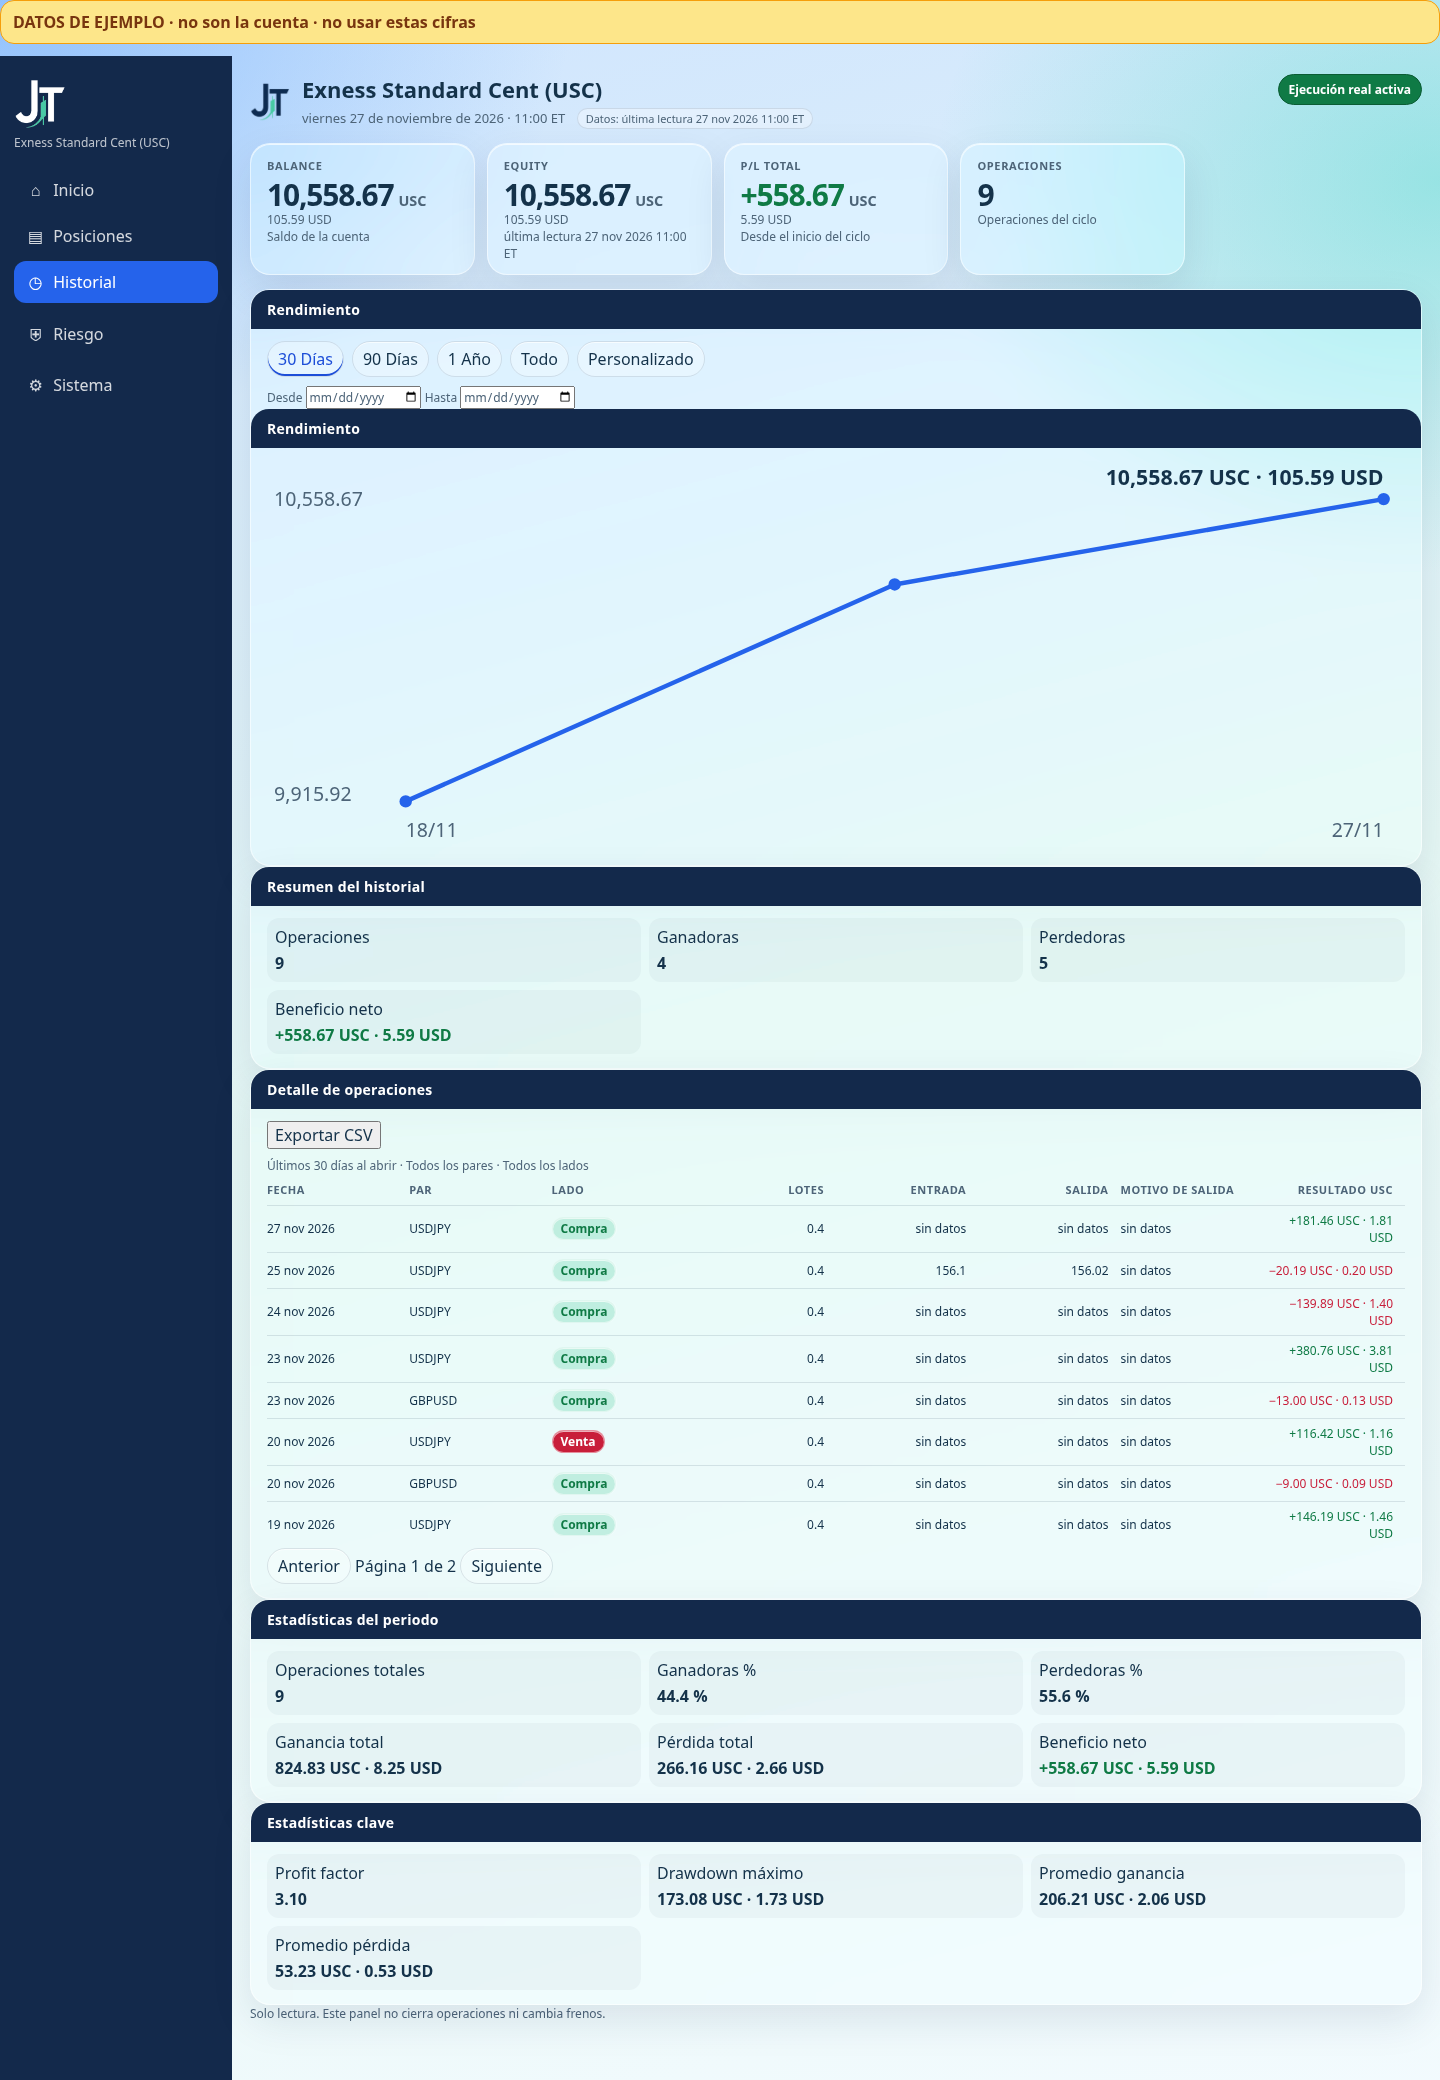
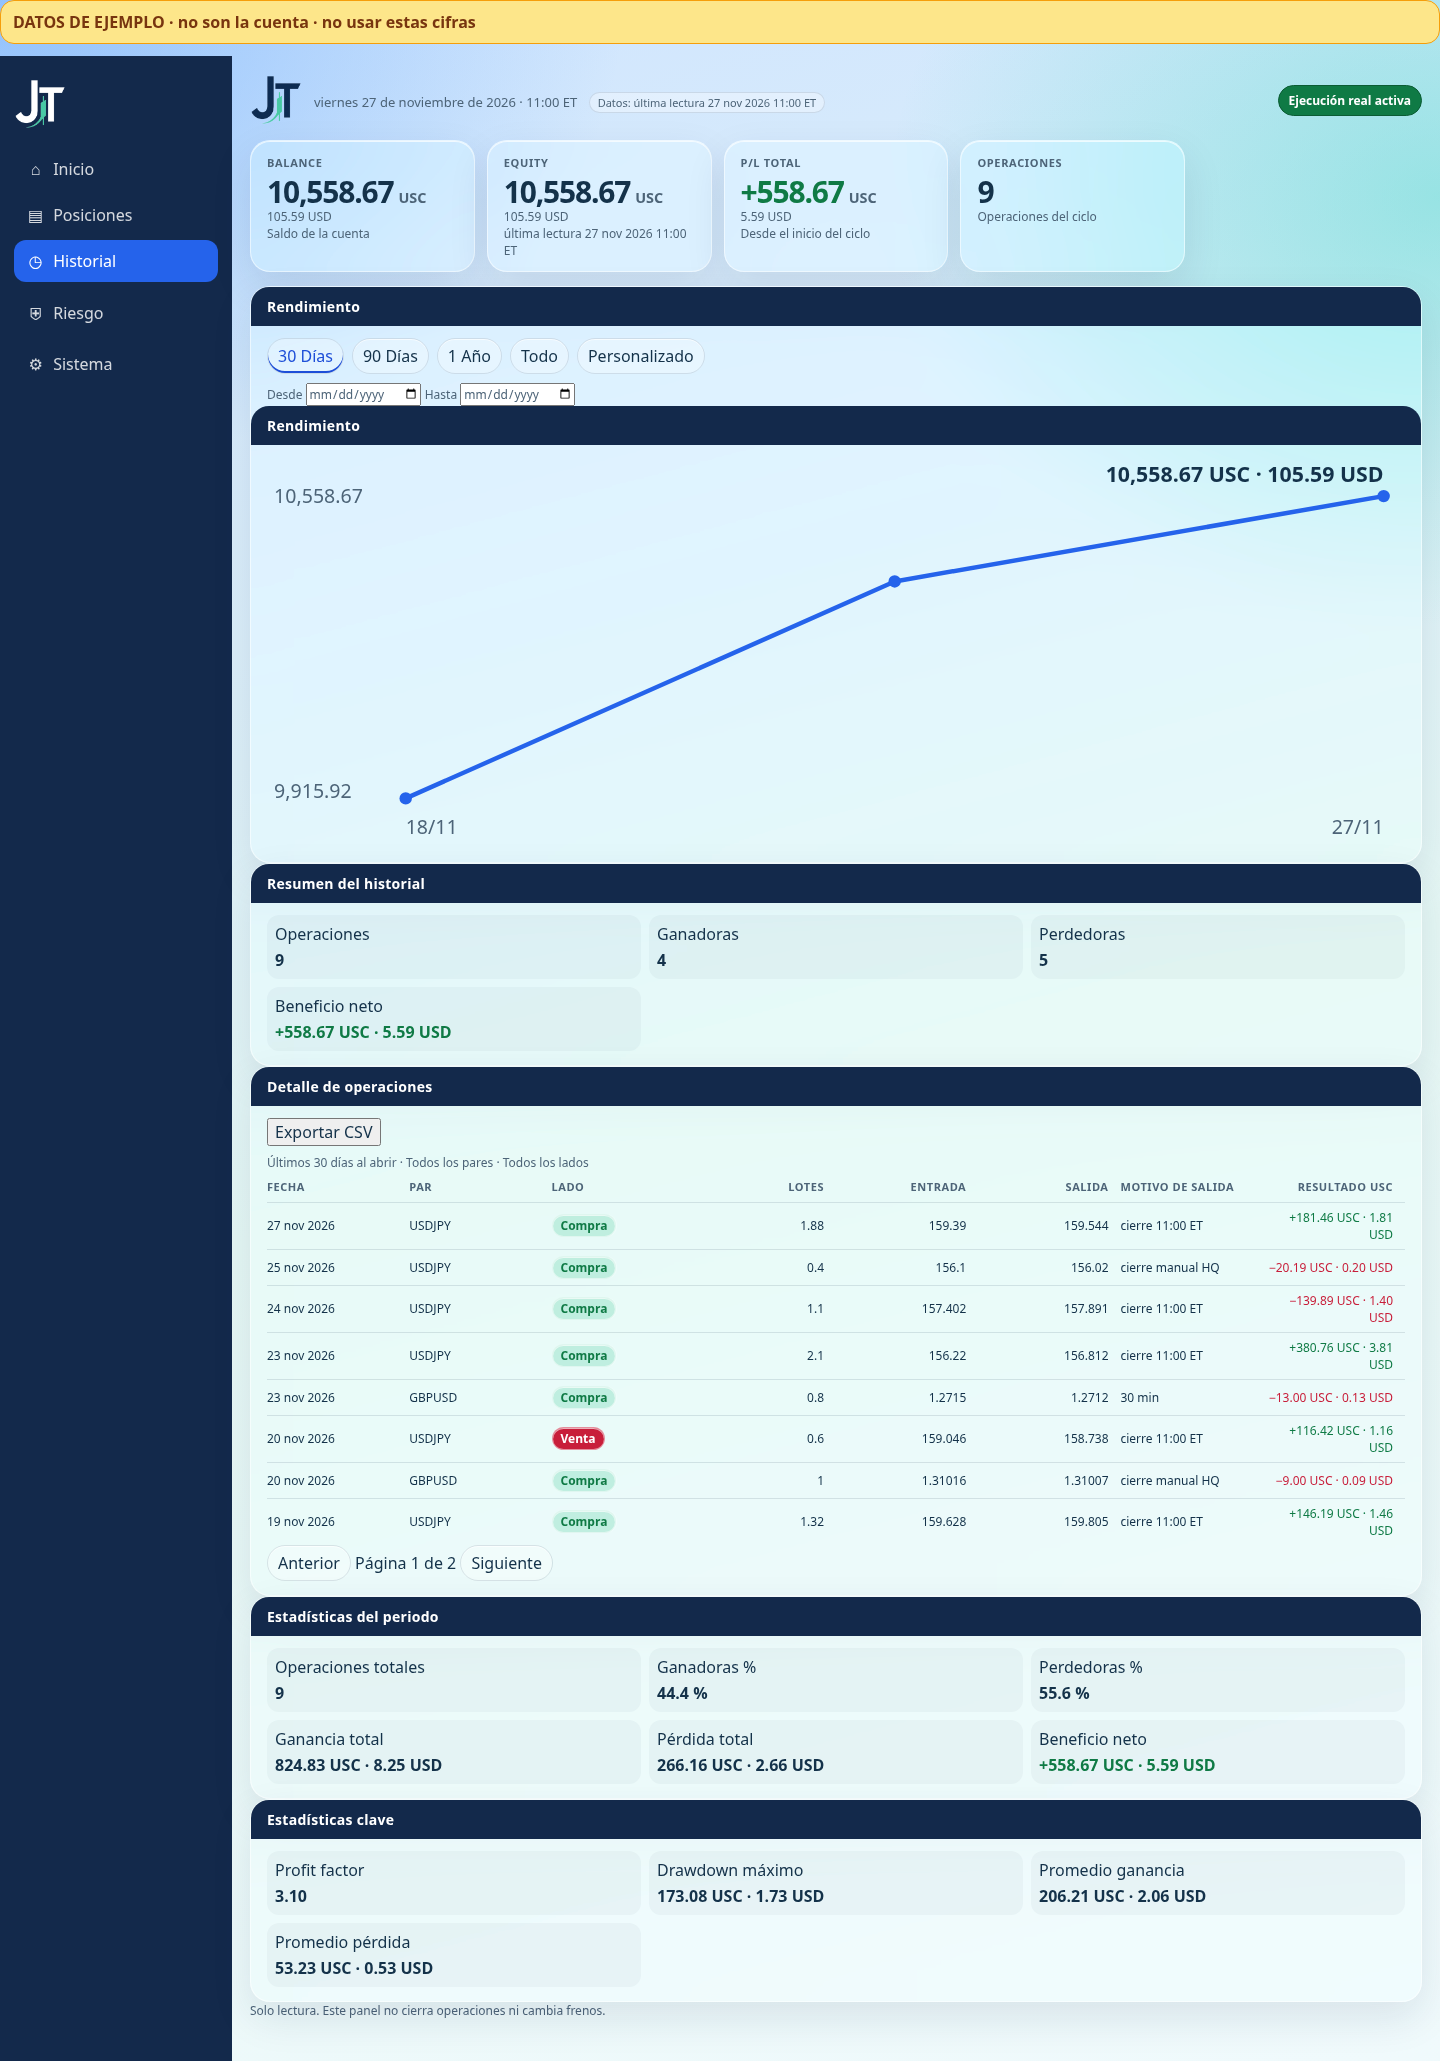
Conserva lotes, entrada, salida y motivo en el Historial.
El 27 nov muestra 1.88, 159.39, 159.544 y cierre 11:00 ET. El 25 nov, cierre manual, queda como cierre manual HQ.

diff --git a/ui/liquid/preview.py b/ui/liquid/preview.py
@@ -7,10 +7,11 @@ BANNER = "DATOS DE EJEMPLO · no son la cuenta · no usar estas cifras"
 _NOW = datetime(2026, 11, 27, 16, 0, tzinfo=timezone.utc)
 
 
-def _done(day, symbol, side, pnl, ticket):
+def _done(day, symbol, side, pnl, ticket, lots, entry, exit_price, reason):
     return json.dumps({
         "status": "done", "exited": True, "symbol": symbol, "side": side,
-        "position_id": ticket, "volume": "0.40", "pnl": pnl,
+        "position_id": ticket, "volume": lots, "pnl": pnl,
+        "entry": entry, "exit_price": exit_price, "exit_reason": reason,
         "opened_at": f"2026-11-{day}T12:00:00+00:00",
         "exit_at": f"2026-11-{day}T16:00:00+00:00",
     })
@@ -20,7 +21,9 @@ def example_view(now=None):
     from ui.liquid.model import build_dashboard
     now = _NOW if now is None else now
     stamp = now.isoformat()
-    # The 25 Nov leg is the live shape: still filled, no ticket, P/L as a deal amount.
+    # 18–20 Nov and the 25 Nov deal match the stored tickets. 27 Nov is the row shape
+    # 1.88 / 159.39 / 159.544 / cierre 11:00 ET. 23 and 24 Nov prices are example fills
+    # so the table is not a column of «sin datos». The 25 Nov reason is the manual close.
     # The snapshot has no positions key. The cycle already published an empty book on the marks flag.
     flags = {
         "exness_launch_start": "2026-11-16T21:00:00+00:00",
@@ -30,21 +33,21 @@ def example_view(now=None):
         "exness_link": "1",
         "exness_link_at": stamp,
         "exness_live_marks": json.dumps({"at": stamp, "positions": []}),
-        "combo_lon_2026-11-27": _done("27", "USDJPY", "LONG", "181.46", "t27"),
+        "combo_lon_2026-11-27": _done("27", "USDJPY", "LONG", "181.46", "t27", "1.88", "159.39", "159.544", "london_1100"),
         "combo_lon_2026-11-25": json.dumps({
             "status": "filled", "exited": False, "symbol": "USDJPY", "side": "LONG",
             "position_id": None, "volume": "0.40", "client_id": "combo-lon-2026-11-25",
             "opened_at": "2026-11-25T07:10:00+00:00", "exit_at": "2026-11-25T16:00:00+00:00",
-            "entry": "156.10", "exit_price": "156.02",
+            "entry": "156.10", "exit_price": "156.02", "exit_reason": "hq_manual",
             "pnl": {"amount": "-20.19", "currency": "USC"},
         }),
-        "combo_lon_2026-11-24": _done("24", "USDJPY", "LONG", "-139.89", "t24"),
-        "combo_fix_2026-11-23": _done("23", "GBPUSD", "LONG", "-13.00", "f23"),
-        "combo_lon_2026-11-23": _done("23", "USDJPY", "LONG", "380.76", "t23"),
-        "combo_fix_2026-11-20": _done("20", "GBPUSD", "LONG", "-9", "f20"),
-        "combo_lon_2026-11-20": _done("20", "USDJPY", "SHORT", "116.42", "t20"),
-        "combo_lon_2026-11-19": _done("19", "USDJPY", "LONG", "146.19", "t19"),
-        "combo_lon_2026-11-18": _done("18", "USDJPY", "SHORT", "-84.08", "t18"),
+        "combo_lon_2026-11-24": _done("24", "USDJPY", "LONG", "-139.89", "t24", "1.10", "157.402", "157.891", "london_1100"),
+        "combo_fix_2026-11-23": _done("23", "GBPUSD", "LONG", "-13.00", "f23", "0.80", "1.27150", "1.27120", "fix_30m"),
+        "combo_lon_2026-11-23": _done("23", "USDJPY", "LONG", "380.76", "t23", "2.10", "156.220", "156.812", "london_1100"),
+        "combo_fix_2026-11-20": _done("20", "GBPUSD", "LONG", "-9", "382026", "1", "1.31016", "1.31007", "hq_manual"),
+        "combo_lon_2026-11-20": _done("20", "USDJPY", "SHORT", "116.42", "375978", "0.6", "159.046", "158.738", "london_1100"),
+        "combo_lon_2026-11-19": _done("19", "USDJPY", "LONG", "146.19", "357063", "1.32", "159.628", "159.805", "london_1100"),
+        "combo_lon_2026-11-18": _done("18", "USDJPY", "SHORT", "-84.08", "341984", "0.93", "159.15", "159.294", "london_1100"),
         "combo_fix_2026-11-27": json.dumps({"status": "skipped", "exit_reason": "window_closed"}),
         "combo_fix_2026-11-26": json.dumps({"status": "done"}),
     }

diff --git a/test_liquid_glass.py b/test_liquid_glass.py
@@ -532,6 +532,42 @@ class HistorySquareTests(unittest.TestCase):
         self.assertNotIn("Sin operación", html)
         self.assertEqual(len(symbols), 9)
 
+    def test_closed_leg_keeps_lots_entry_exit_and_reason(self):
+        now = datetime(2026, 11, 27, 21, 0, tzinfo=timezone.utc)
+        flags = {
+            "combo_lon_2026-11-27": json.dumps({
+                "status": "done", "exited": True, "symbol": "USDJPY", "side": "LONG",
+                "position_id": "t27", "volume": "1.88", "entry": "159.39", "exit_price": "159.544",
+                "pnl": "181.46", "exit_reason": "london_1100",
+                "opened_at": "2026-11-27T12:00:00+00:00", "exit_at": "2026-11-27T16:00:00+00:00",
+            }),
+            "combo_lon_2026-11-25": json.dumps({
+                "status": "filled", "exited": False, "symbol": "USDJPY", "side": "LONG",
+                "position_id": None, "volume": "0.40", "client_id": "combo-lon-2026-11-25",
+                "entry": "156.10", "exit_price": "156.02", "exit_reason": "hq_manual",
+                "opened_at": "2026-11-25T07:10:00+00:00", "exit_at": "2026-11-25T16:00:00+00:00",
+                "pnl": {"amount": "-20.19", "currency": "USC"},
+            }),
+        }
+        view = _view(now=now, flags=flags)
+        by_day = {row["day"][:2]: row for row in view["history"]["rows"]}
+        nov27 = by_day["27"]
+        self.assertEqual(nov27["lots"], "1.88")
+        self.assertEqual(nov27["entry"], "159.39")
+        self.assertEqual(nov27["exit_price"], "159.544")
+        self.assertEqual(nov27["reason"], "cierre 11:00 ET")
+        self.assertIn("181.46", nov27["pnl"])
+        nov25 = by_day["25"]
+        self.assertEqual(nov25["lots"], "0.4")
+        self.assertEqual(nov25["entry"], "156.1")
+        self.assertEqual(nov25["exit_price"], "156.02")
+        self.assertEqual(nov25["reason"], "cierre manual HQ")
+        html = fragment(view, section="Historial")
+        self.assertIn("1.88", html)
+        self.assertIn("159.544", html)
+        self.assertIn("cierre 11:00 ET", html)
+        self.assertIn("cierre manual HQ", html)
+
     def test_parts_sum_to_one_row(self):
         now = datetime(2026, 11, 27, 21, 0, tzinfo=timezone.utc)
         flags = {"combo_lon_2026-11-25": json.dumps({

diff --git a/test_combo_history.py b/test_combo_history.py
@@ -114,6 +114,7 @@ class FillRulesTests(unittest.TestCase):
         self.assertEqual(derive_exit_reason({"position_id": "341984"}, "combo_lon_2026-11-18"), "london_1100")
         self.assertIsNone(derive_exit_reason({"position_id": "99"}, "combo_fix_2026-11-19"))
         self.assertEqual(derive_exit_reason({"position_id": "1"}, "combo_lon_2026-11-21"), "london_1100")
+        self.assertEqual(derive_exit_reason({"position_id": "425111"}, "combo_lon_2026-11-25"), "hq_manual")
         self.assertEqual(KNOWN_EXIT_REASONS["357063"], "london_1100")
         self.assertEqual(KNOWN_EXIT_REASONS["375978"], "london_1100")
 
@@ -279,6 +280,11 @@ class FlatFlagBackfillTests(unittest.TestCase):
         row = next(item for item in view["history"]["rows"] if item["ticket"] == "425111")
         self.assertIn("20.19", row["pnl"])
         self.assertIn("20.19", view["history"]["stats"]["net"])
+        self.assertEqual(row["lots"], "0.4")
+        self.assertEqual(row["entry"], "156.1")
+        self.assertEqual(row["exit_price"], "156.02")
+        self.assertEqual(row["reason"], "cierre manual HQ")
+        self.assertEqual(load(store, london_key(day.date()))["exit_reason"], "hq_manual")
 
     def test_two_close_deals_sum_to_one_pnl(self):
         day = datetime(2026, 11, 25, tzinfo=timezone.utc)

diff --git a/execution/combo_history.py b/execution/combo_history.py
@@ -25,6 +25,8 @@ KNOWN_EXIT_REASONS = {
     "357063": "london_1100",
     "375978": "london_1100",
     "382026": "hq_manual",
+    # 25 Nov USDJPY, closed by hand. A london key alone would say 11:00 ET.
+    "425111": "hq_manual",
 }
 _TERMINAL = ("done", "skipped", "cancelled")
 _DEAL_KEYS = ("type", "position_id", "price", "profit", "instrument", "direction",

diff --git a/CHANGELOG_AGENT.md b/CHANGELOG_AGENT.md
@@ -5,7 +5,7 @@
 - La tabla y el resumen del Historial salen de las mismas patas cerradas. La del 25 nov (sigue `filled`, sin ticket, P/L como importe del deal) entra y suma. Un Fix sin par ni P/L no se pinta. Una pata abierta tampoco.
 - Si el cierre tuvo varias partes, el backfill guarda la suma de los P/L, no solo el último.
 - Posiciones: un libro vacío que el ciclo ya publicó (`exness_live_marks`) muestra 0.00 USC y «Sin posiciones abiertas». Sin esa lectura, con el enlace caído o con la marca vieja, sigue «sin datos». No se inventa un flotante.
-- Lotes, entrada, salida y motivo se copian del flag. `london_1100` se lee «cierre 11:00 ET» y `hq_manual` «cierre manual HQ».
+- Lotes, entrada, salida y motivo se copian del flag. `london_1100` se lee «cierre 11:00 ET» y `hq_manual` «cierre manual HQ». El ticket 425111 (25 nov, cierre manual) queda en ese segundo motivo; antes el backfill lo anotaba como cierre de las 11:00.
 - Sin cambio de órdenes, frenos, variables de entorno ni Render. Sin merge y sin deploy.
 
 ## 2026-11-27 — encabezado del panel y menú a 414 px
